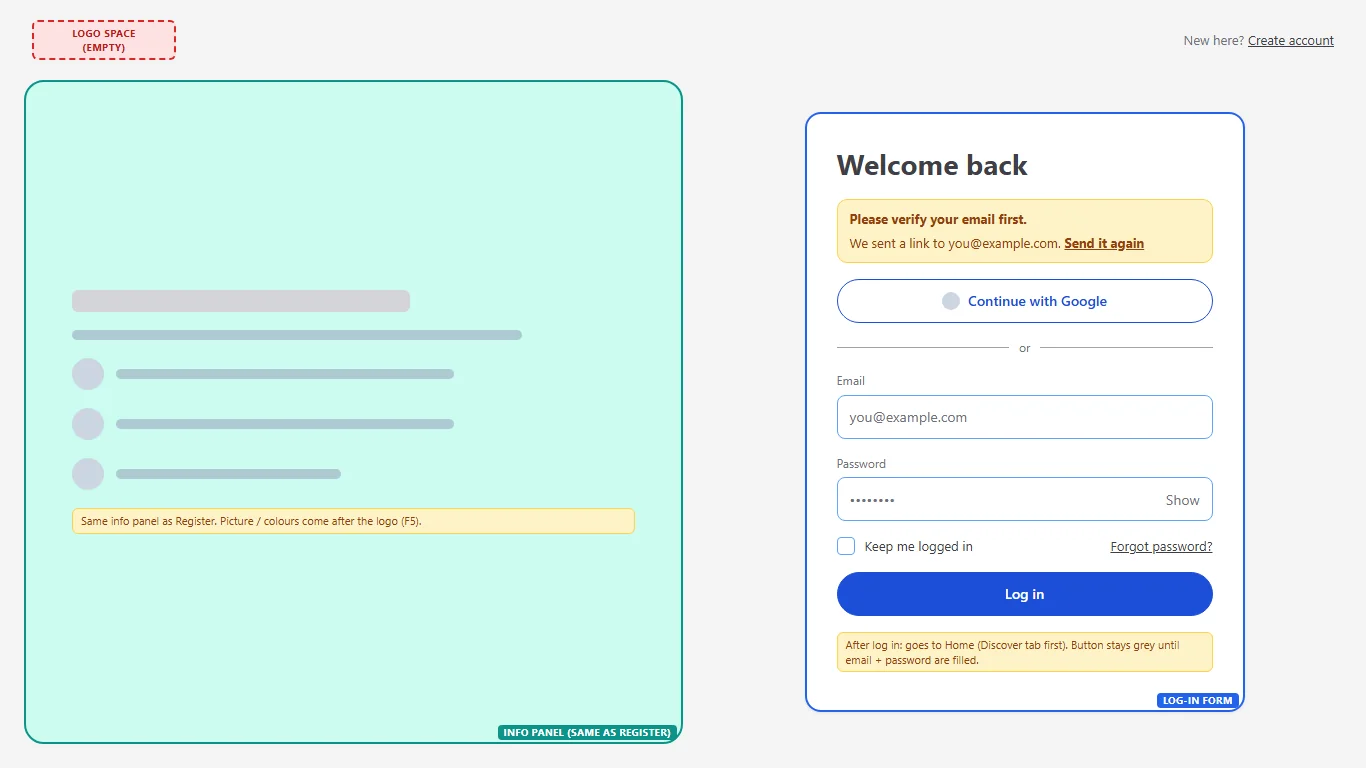
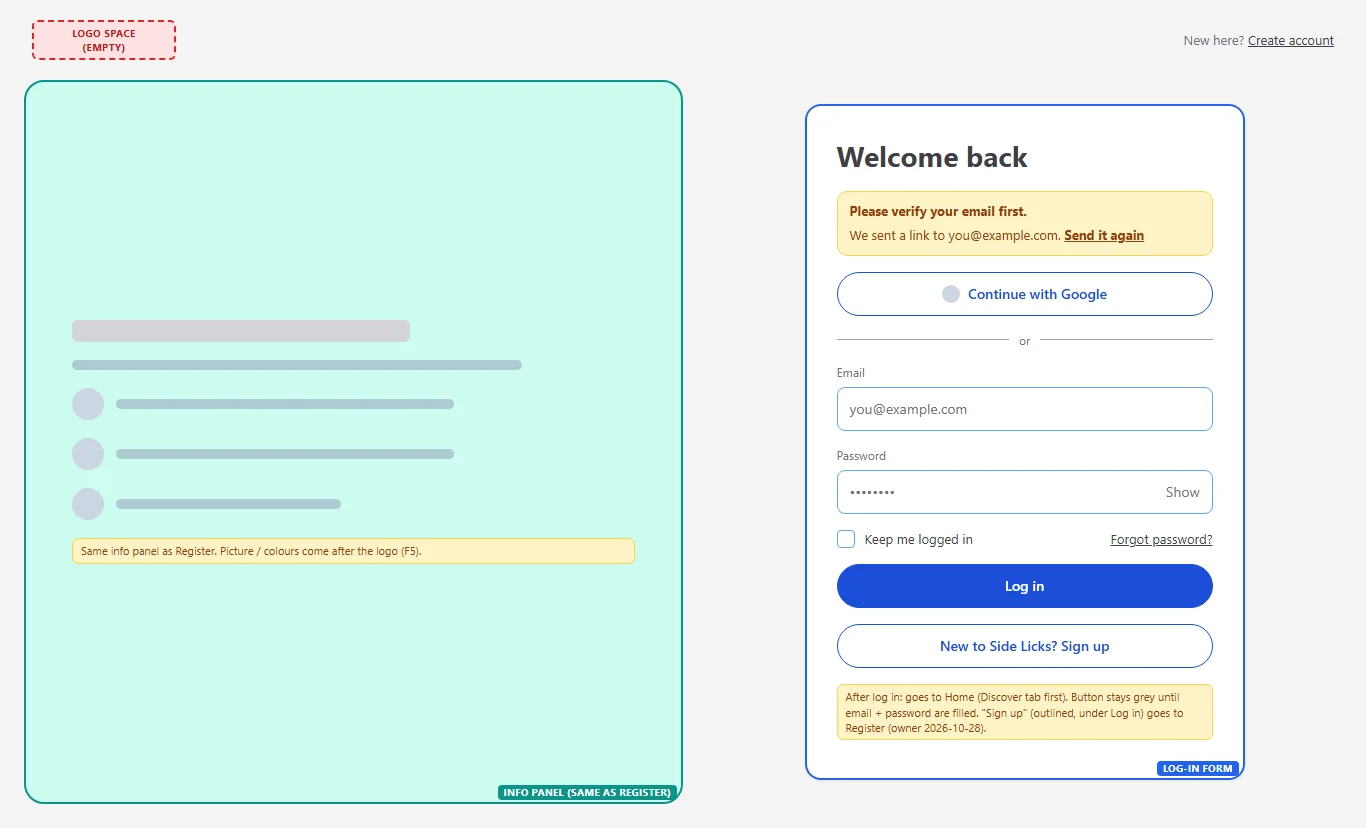
Login: "New to Side Licks? Sign up" button under Log in (owner)
Wireframe + real page + test; pictures updated.

diff --git a/frontend/e2e/login.spec.ts b/frontend/e2e/login.spec.ts
@@ -37,6 +37,11 @@ test("login: layout, button waits for both fields, wrong password shows the red 
   await expect(page.getByRole("heading", { name: "Welcome back", exact: true })).toBeVisible();
   for (const slot of await page.locator('[data-slot="logo"]').all()) await expect(slot).toBeEmpty();
   await expect(page.getByRole("link", { name: "Create account" })).toHaveAttribute("href", "/register");
+  const signUp = page.getByRole("link", { name: "New to Side Licks? Sign up" });
+  await expect(signUp).toBeVisible();
+  const [loginBox, signUpBox] = [await page.getByRole("button", { name: "Log in" }).boundingBox(), await signUp.boundingBox()];
+  expect(signUpBox!.y).toBeGreaterThan(loginBox!.y); // under the Log in button
+  expect(Math.abs(signUpBox!.width - loginBox!.width)).toBeLessThan(2); // same width
   const wide = page.viewportSize()!.width >= 1024;
   await expect(page.getByRole("complementary", { name: "About Side Licks" })).toBeVisible({ visible: wide });
 
@@ -55,6 +60,8 @@ test("login: layout, button waits for both fields, wrong password shows the red 
   await page.getByRole("button", { name: "Forgot password?" }).click();
   await expect(page.getByTestId("toast")).toContainText("Password reset comes in a later step");
   expect(await page.evaluate(() => document.documentElement.scrollWidth > window.innerWidth)).toBe(false);
+  await signUp.click();
+  await expect(page).toHaveURL(/\/register$/);
 });
 
 test("login: email not verified yet shows the yellow box and Send it again", async ({ page }) => {

diff --git a/frontend/src/components/auth/LoginForm.tsx b/frontend/src/components/auth/LoginForm.tsx
@@ -1,5 +1,6 @@
 "use client";
 
+import Link from "next/link";
 import { useRouter } from "next/navigation";
 import { useState } from "react";
 import { api, type ApiError, type Me } from "@/lib/api";
@@ -118,6 +119,10 @@ export default function LoginForm() {
       <button type="submit" disabled={!ready || busy} className="h-11 rounded-full bg-accent font-semibold text-white disabled:cursor-not-allowed disabled:bg-border disabled:text-muted">
         {busy ? "Logging in…" : "Log in"}
       </button>
+      {/* owner 2026-10-28: sign-up button under Log in (like Fanvue) */}
+      <Link href="/register" className="grid h-11 place-items-center rounded-full border border-text font-semibold hover:bg-bg">
+        New to Side Licks? Sign up
+      </Link>
     </form>
   );
 }

diff --git a/wireframes/login.html b/wireframes/login.html
@@ -93,7 +93,8 @@
           <a href="#">Forgot password?</a>
         </div>
         <button class="btn" type="button">Log in</button>
-        <span class="note">After log in: goes to Home (Discover tab first). Button stays grey until email + password are filled.</span>
+        <button class="btn ghost" type="button">New to Side Licks? Sign up</button>
+        <span class="note">After log in: goes to Home (Discover tab first). Button stays grey until email + password are filled. "Sign up" (outlined, under Log in) goes to Register (owner 2026-10-28).</span>
       </form>
     </div>
   </div>

diff --git a/CLAUDE.md b/CLAUDE.md
@@ -33,9 +33,9 @@ Details: `code.md` (how to run, structure, tests), `design.md` (screens, sizes, 
 
 ## Status (update every task)
 
-- 2026-10-27 Step 1 (B20 + F6 wireframes): project set up, start page + `/api/health` working, wireframes for register / verify email / home made at 4 sizes - **wireframes APPROVED by owner 2026-10-28** (register, verify email, home; with continuous scroll on Discover). F5 (logo) waits for owner. Git remote `origin` = GitHub repo above; Excel task list now v73. First approval message was withdrawn by the owner (no pictures had been shown); colour-coded pictures sent 2026-10-27. Home redesigned (layout v2: live rings, post grid, suggestions inside the feed; then v3: owner wants the menu ALWAYS on the left on every device, no bottom bar). Discover (2026-10-28) = one-line video row -> "Creators you may like" row -> new video row with different creators -> ... (owner). Feed algorithm changed by owner: Discover tab opens first on every login (videos, tap name = profile), Subscribed tab next to it (only followed / subscribed creators); first-login screen replaced by this. Branded mockups wait for the logo (F5).
+- 2026-10-27 Step 1 (B20 + F6 wireframes): project set up, start page + `/api/health` working, wireframes for register / verify email / home made at 4 sizes - **wireframes APPROVED by owner 2026-10-28** (register, verify email, home; with continuous scroll on Discover). F5 (logo) waits for owner. Git remote `origin` = GitHub repo above; Excel task list now v74. First approval message was withdrawn by the owner (no pictures had been shown); colour-coded pictures sent 2026-10-27. Home redesigned (layout v2: live rings, post grid, suggestions inside the feed; then v3: owner wants the menu ALWAYS on the left on every device, no bottom bar). Discover (2026-10-28) = one-line video row -> "Creators you may like" row -> new video row with different creators -> ... (owner). Feed algorithm changed by owner: Discover tab opens first on every login (videos, tap name = profile), Subscribed tab next to it (only followed / subscribed creators); first-login screen replaced by this. Branded mockups wait for the logo (F5).
 - 2026-10-28 **Step 1A DONE: home page built** at http://localhost:3000/home (sample data; real feed API = B110, accounts = B25). Tested 3 runs x 4 sizes. Next: review with the owner which steps come next (owner asked for this), then build register / verify email.
-- 2026-10-28 **Step 1B (owner: register + login before "check your email")**: register BUILT (real page + API + database + Check your email popup + toasts). Login wireframe **approved 2026-10-28** and login BUILT (page + `POST /api/auth/login` + "Send it again"); unverified emails can not log in until verified. Excel v73. Emails only go to the `email_outbox` table until an email service is chosen (E1).
+- 2026-10-28 **Step 1B (owner: register + login before "check your email")**: register BUILT (real page + API + database + Check your email popup + toasts). Login wireframe **approved 2026-10-28** and login BUILT (page + `POST /api/auth/login` + "Send it again"); unverified emails can not log in until verified. Sign up button added under Log in (owner). Excel v74. Emails only go to the `email_outbox` table until an email service is chosen (E1).
 
 ## Working notes for Claude
 

diff --git a/design.md b/design.md
@@ -49,7 +49,7 @@ Font: Geist (next/font, self-hosted at build). Change brand colours in one place
 
 **Register** - phone: full-width form. Tablet: centred white card. Laptop / desktop: grey info panel on the left (short lines about Side Licks; picture / colours after F5) + form card on the right. Form: title "Create your account", Continue with Google, "or", Email, Password (Show, "At least 8 characters"), "I am 18 or older" tick, Terms + Privacy tick, Create account (grey until all filled), "Have an account? Sign in" top right. After sign-up: "Check your email" popup (bottom sheet on phone, centred box on tablet+) with Send again + Change email + X.
 
-**Log in** (approved + built 2026-10-28) - same frame as Register (info panel on laptop+, centred card on tablet, plain form on phone). "Welcome back", Continue with Google, or, Email, Password + Show, "Keep me logged in" tick, "Forgot password?" link, Log in button (grey until both filled), "New here? Create account" top right. States: wrong email or password = red box above the form; email not verified yet = yellow box "Please verify your email first" + "Send it again". After log in -> Home (Discover first). Email not verified = no log-in yet (verify first); "Send it again" sends a new link (same 1-minute / 5-an-hour limits). "Keep me logged in" ticked = 30 days, not ticked = until the browser closes (server: 1 day). "Forgot password?" = toast "comes in a later step" (F13). Real pictures: `wireframes/real/login-*.webp`.
+**Log in** (approved + built 2026-10-28) - same frame as Register (info panel on laptop+, centred card on tablet, plain form on phone). "Welcome back", Continue with Google, or, Email, Password + Show, "Keep me logged in" tick, "Forgot password?" link, Log in button (grey until both filled), outlined "New to Side Licks? Sign up" button right under it (owner 2026-10-28, like Fanvue) -> Register, "New here? Create account" top right. States: wrong email or password = red box above the form; email not verified yet = yellow box "Please verify your email first" + "Send it again". After log in -> Home (Discover first). Email not verified = no log-in yet (verify first); "Send it again" sends a new link (same 1-minute / 5-an-hour limits). "Keep me logged in" ticked = 30 days, not ticked = until the browser closes (server: 1 day). "Forgot password?" = toast "comes in a later step" (F13). Real pictures: `wireframes/real/login-*.webp`.
 
 **Live now row** (owner 2026-10-28): exactly 5 rings in view on every size (each 1/5 of the row, ring 50 / 68 / 80 / 92 px phone / tablet / laptop / desktop), first name + "N watching" (phone: eye icon + N), arrows / swipe move a full 5, left arrow grey at the start, right arrow grey at the end.
 

diff --git a/code.md b/code.md
@@ -140,3 +140,4 @@ Goal: Discover never ends, rows never look cut off, and the fan is not worn out 
 - 2026-10-28 STEP 1B (part 1): login wireframe made (waiting). Register built for real: /register page + Check your email popup + toasts (F7), backend sign-up / me / resend / change email / logout, migrations, email outbox. argon2 added (backend). Tests: backend e2e 8/8 against the real DB (values checked), Playwright 32/32 at 4 sizes, 2 runs.
 - 2026-10-28 STEP 1A: home page built at /home (Next.js, client components): left menu (rail / sidebar), Discover / Subscribed tabs, live rings, Discover video rows + creators rows with continuous scroll (loads 1.5 screens early, placeholder row while loading, sideways loading per row), Subscribed post grid + empty state, follow (sample, saved in the browser), back-to-top, "comes in a later step" notice for menu items not built yet, /c/[handle] profile stub. Sample data only. Playwright home.spec.ts: 4 tests x 4 sizes, passed 3 runs (20/20 with start page).
 - 2026-10-28 STEP 1B (part 2): login wireframe approved and built: /login page (LoginForm), POST /api/auth/login (argon2 check, same message for wrong email or password, dummy hash so unknown emails take as long; unverified = 403 code "unverified", no session; keepLoggedIn = 30-day cookie, else browser-session cookie + 1-day server session), POST /api/auth/login/resend-verification (needs email + password, same limits). Tests: backend e2e 13/13 against the real DB (sessions + cookies checked), Playwright 48/48 at 4 sizes x 3 runs (login test marks the account verified in the real DB with psql). Not yet: limit on failed log-in tries (brute force) - add with B34 / security tasks.
+- 2026-10-28 Login: "New to Side Licks? Sign up" button under Log in -> /register (owner, wireframe + page). Login tests 12/12 x 2 runs at 4 sizes (register 12/12).
